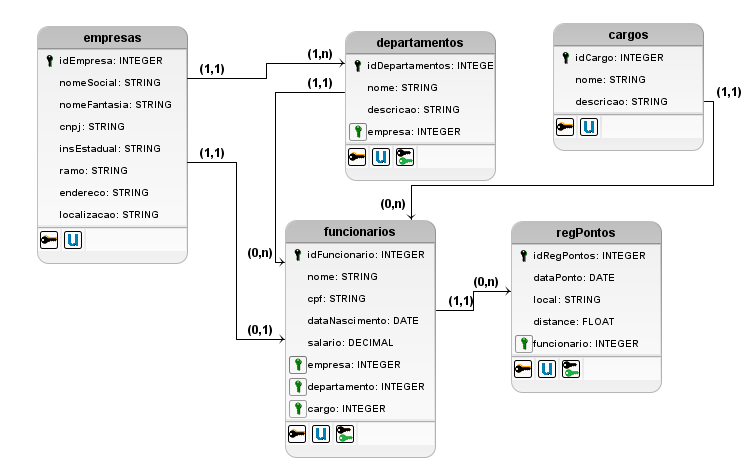
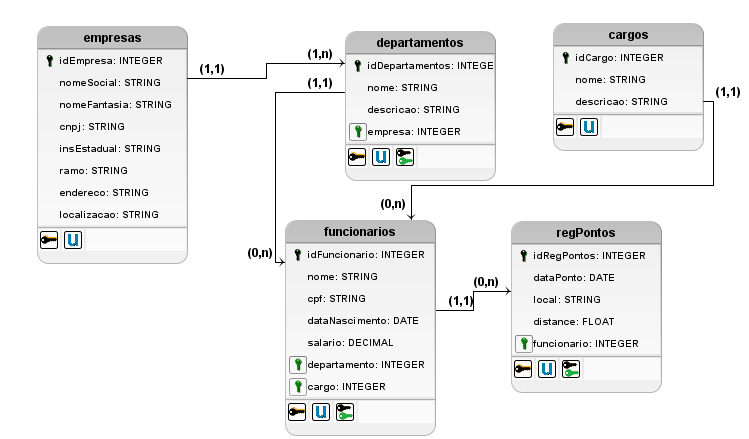
Reestruturação API
Alteração do modelo de dados.
Alteração das rotas da API.
Alteração da interpretação de Json recebida.
Criação arquivo de testes insominia.

diff --git a/api/src/main/java/br/com/fluffynow/api/funcionario/Funcionario.java b/api/src/main/java/br/com/fluffynow/api/funcionario/Funcionario.java
@@ -2,18 +2,20 @@ package br.com.fluffynow.api.funcionario;
 
 import java.math.BigDecimal;
 import java.util.Date;
+import java.util.List;
 
+import com.fasterxml.jackson.annotation.JsonBackReference;
 import com.fasterxml.jackson.annotation.JsonIgnoreProperties;
-
 import br.com.fluffynow.api.cargo.Cargo;
 import br.com.fluffynow.api.departamento.Departamento;
-import br.com.fluffynow.api.empresa.Empresa;
+import br.com.fluffynow.api.regPonto.RegPonto;
 import jakarta.persistence.Entity;
 import jakarta.persistence.GeneratedValue;
 import jakarta.persistence.GenerationType;
 import jakarta.persistence.Id;
 import jakarta.persistence.JoinColumn;
 import jakarta.persistence.ManyToOne;
+import jakarta.persistence.OneToMany;
 import jakarta.persistence.Table;
 import lombok.AllArgsConstructor;
 import lombok.Getter;
@@ -30,7 +32,7 @@ import lombok.Setter;
 public class Funcionario {
 	
 	@Id
-	@GeneratedValue(strategy=GenerationType.IDENTITY)
+	@GeneratedValue(strategy=GenerationType.AUTO)
 	@jakarta.persistence.Column(name="idFuncionario")
 	private Long idFuncionario;
 	
@@ -47,15 +49,15 @@ public class Funcionario {
 	private Date dataNascimento;
 	
 	@ManyToOne
-	@JoinColumn(name="idEmpresa", nullable=false)
-	private Empresa empresa;
-	
-	@ManyToOne
-	@JoinColumn(name="idCargo", nullable=false)
+	@JoinColumn(name="id_cargo", nullable=false)
 	private Cargo cargo;
 	
 	@ManyToOne
-	@JoinColumn(name="idDepartamento", nullable=false)
+	@JoinColumn(name="id_departamento", nullable=false)
 	private Departamento departamento;
+	
+	@JsonBackReference
+	@OneToMany(mappedBy="funcionario")
+	private List<RegPonto> regPontos;
 	
 }

diff --git a/api/src/main/java/br/com/fluffynow/api/empresa/Empresa.java b/api/src/main/java/br/com/fluffynow/api/empresa/Empresa.java
@@ -1,16 +1,21 @@
 package br.com.fluffynow.api.empresa;
 
-import com.fasterxml.jackson.annotation.JsonIgnoreProperties;
+import java.util.List;
 
+import com.fasterxml.jackson.annotation.JsonBackReference;
+import com.fasterxml.jackson.annotation.JsonIgnoreProperties;
 import jakarta.persistence.Entity;
 import jakarta.persistence.GeneratedValue;
 import jakarta.persistence.GenerationType;
 import jakarta.persistence.Id;
+import jakarta.persistence.OneToMany;
 import jakarta.persistence.Table;
 import lombok.AllArgsConstructor;
 import lombok.Getter;
 import lombok.NoArgsConstructor;
 import lombok.Setter;
+
+import br.com.fluffynow.api.departamento.Departamento;
 
 @AllArgsConstructor
 @NoArgsConstructor
@@ -18,13 +23,16 @@ import lombok.Setter;
 @Entity
 @Getter
 @Setter
-@Table(name = "empresa") 
+@Table(name = "empresa")
 public class Empresa {
 	
 	@Id
-	@GeneratedValue(strategy=GenerationType.IDENTITY)
+	@GeneratedValue(strategy=GenerationType.AUTO)
 	@jakarta.persistence.Column(name="idEmpresa")
 	private Long idEmpresa;
+	
+	@jakarta.persistence.Column(name="nomeSocial")
+	private String nomeSocial;
 	
 	@jakarta.persistence.Column(name="nomeFantasia")
 	private String nomeFantasia;
@@ -43,5 +51,9 @@ public class Empresa {
 	
 	@jakarta.persistence.Column(name="localizacao")
 	private String localizacao;
+	
+	@JsonBackReference
+	@OneToMany(mappedBy="empresa")
+	private List<Departamento> departamentos;
 	
 }

diff --git a/api/src/main/java/br/com/fluffynow/api/departamento/Departamento.java b/api/src/main/java/br/com/fluffynow/api/departamento/Departamento.java
@@ -1,11 +1,18 @@
 package br.com.fluffynow.api.departamento;
 
-import com.fasterxml.jackson.annotation.JsonIgnoreProperties;
+import java.util.List;
 
+import com.fasterxml.jackson.annotation.JsonBackReference;
+import com.fasterxml.jackson.annotation.JsonIgnoreProperties;
+import br.com.fluffynow.api.empresa.Empresa;
+import br.com.fluffynow.api.funcionario.Funcionario;
 import jakarta.persistence.Entity;
 import jakarta.persistence.GeneratedValue;
 import jakarta.persistence.GenerationType;
 import jakarta.persistence.Id;
+import jakarta.persistence.JoinColumn;
+import jakarta.persistence.ManyToOne;
+import jakarta.persistence.OneToMany;
 import jakarta.persistence.Table;
 import lombok.AllArgsConstructor;
 import lombok.Getter;
@@ -22,7 +29,7 @@ import lombok.Setter;
 public class Departamento {
 	
 	@Id
-	@GeneratedValue(strategy=GenerationType.IDENTITY)
+	@GeneratedValue(strategy=GenerationType.AUTO)
 	@jakarta.persistence.Column(name="idDepartamento")
 	private Long idDepartamento;
 	
@@ -31,4 +38,12 @@ public class Departamento {
 	
 	@jakarta.persistence.Column(name="descricao")
 	private String descricao; 
+	
+	@ManyToOne
+	@JoinColumn(name="id_empresa", nullable=false)
+	private Empresa empresa;
+	
+	@JsonBackReference
+	@OneToMany(mappedBy="departamento")
+	private List<Funcionario> funcionarios;
 }

diff --git a/api/src/main/java/br/com/fluffynow/api/cargo/Cargo.java b/api/src/main/java/br/com/fluffynow/api/cargo/Cargo.java
@@ -1,11 +1,15 @@
 package br.com.fluffynow.api.cargo;
 
-import com.fasterxml.jackson.annotation.JsonIgnoreProperties;
+import java.util.List;
 
+import com.fasterxml.jackson.annotation.JsonBackReference;
+import com.fasterxml.jackson.annotation.JsonIgnoreProperties;
+import br.com.fluffynow.api.funcionario.Funcionario;
 import jakarta.persistence.Entity;
 import jakarta.persistence.GeneratedValue;
 import jakarta.persistence.GenerationType;
 import jakarta.persistence.Id;
+import jakarta.persistence.OneToMany;
 import jakarta.persistence.Table;
 import lombok.AllArgsConstructor;
 import lombok.Getter;
@@ -22,7 +26,7 @@ import lombok.Setter;
 public class Cargo {
 	
 	@Id
-	@GeneratedValue(strategy=GenerationType.IDENTITY)
+	@GeneratedValue(strategy=GenerationType.AUTO)
 	@jakarta.persistence.Column(name="idCargo")
 	private Long idCargo;
 	
@@ -30,6 +34,10 @@ public class Cargo {
 	private String nome; 
 	
 	@jakarta.persistence.Column(name="descricao")
-	private String descricao; 
+	private String descricao;
+	
+	@JsonBackReference
+	@OneToMany(mappedBy="cargo")
+	private List<Funcionario> funcionarios;
 	
 }

diff --git a/api/src/main/java/br/com/fluffynow/api/regPonto/RegPonto.java b/api/src/main/java/br/com/fluffynow/api/regPonto/RegPonto.java
@@ -27,7 +27,7 @@ import lombok.Setter;
 public class RegPonto {
 	
 	@Id
-	@GeneratedValue(strategy=GenerationType.IDENTITY)
+	@GeneratedValue(strategy=GenerationType.AUTO)
 	@jakarta.persistence.Column(name="idRegPonto")
 	private Long idRegPonto;
 	
@@ -41,6 +41,6 @@ public class RegPonto {
 	private String distancia;
 	
 	@ManyToOne
-	@JoinColumn(name="idFuncionario", nullable=false)
+	@JoinColumn(name="id_funcionario", nullable=false)
 	private Funcionario funcionario;
 }
